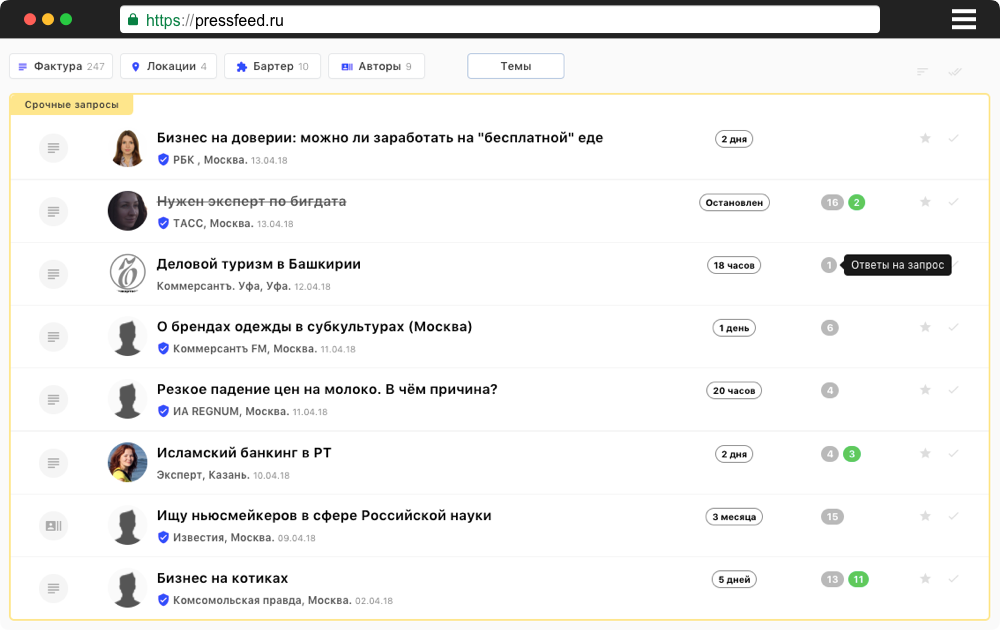
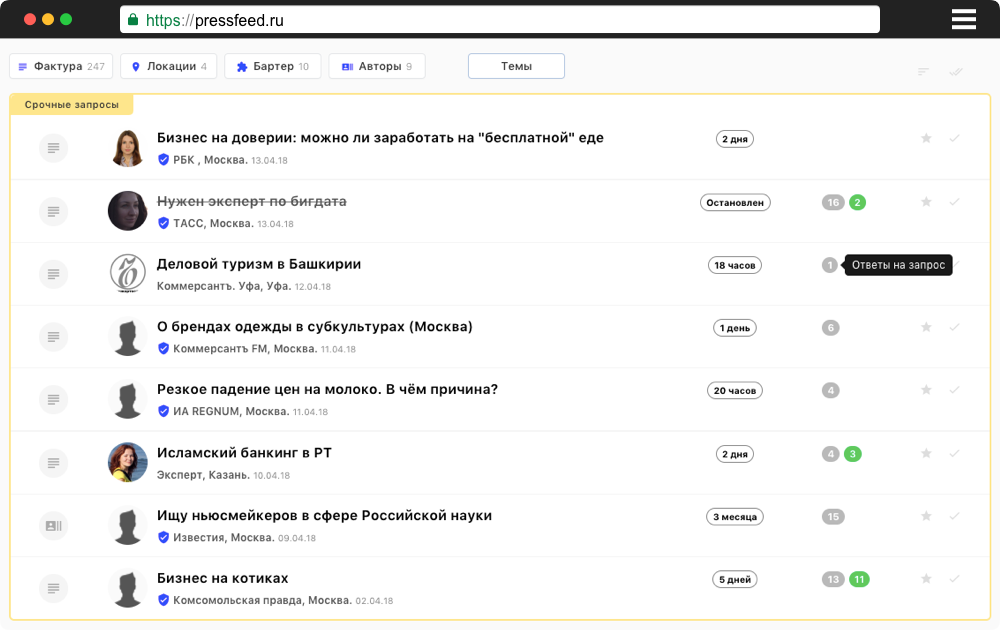
screenshots updated 4

diff --git a/src/css/app.css b/src/css/app.css
@@ -7751,8 +7751,8 @@ header .burger {
     display: block;
     height: auto;
     width: 100%;
-    box-shadow: 0 1px 1px rgba(0, 0, 0, 0.1);
-    max-width: 1000px;
+    border: 1px solid rgba(0, 0, 0, 0.05);
+    max-width: 1002px;
     border-radius: 10px; }
 
 .carousel-indicators {

diff --git a/src/scss/_components.scss b/src/scss/_components.scss
@@ -187,8 +187,8 @@
     display: block;
     height: auto;
     width: 100%;
-    box-shadow: 0 1px 1px rgba(0, 0, 0, 0.1);
-    max-width: 1000px;
+    border: 1px solid rgba(0,0,0,0.05);
+    max-width: 1002px;
     border-radius: 10px;
   }
 }
